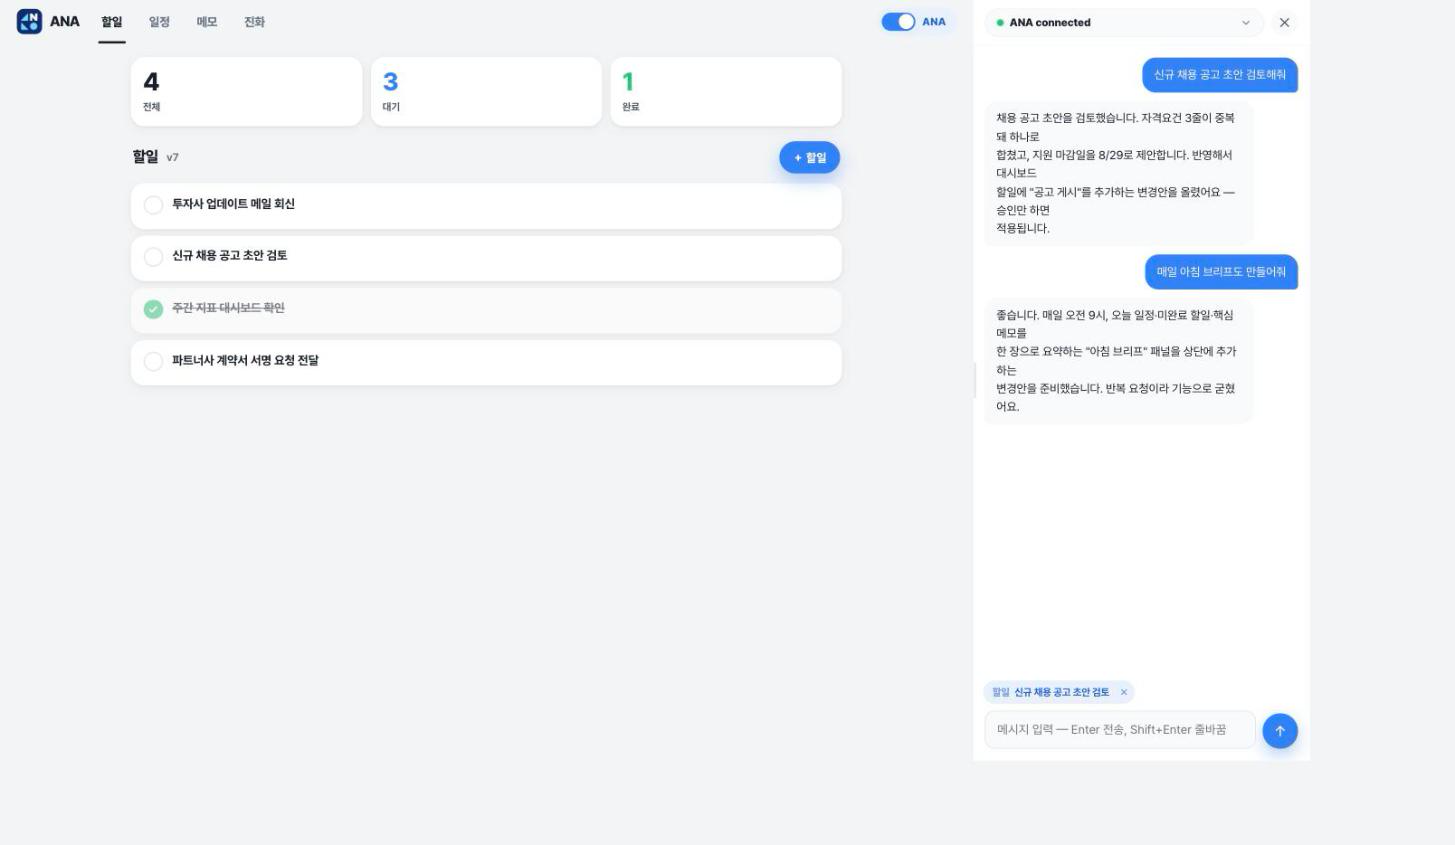
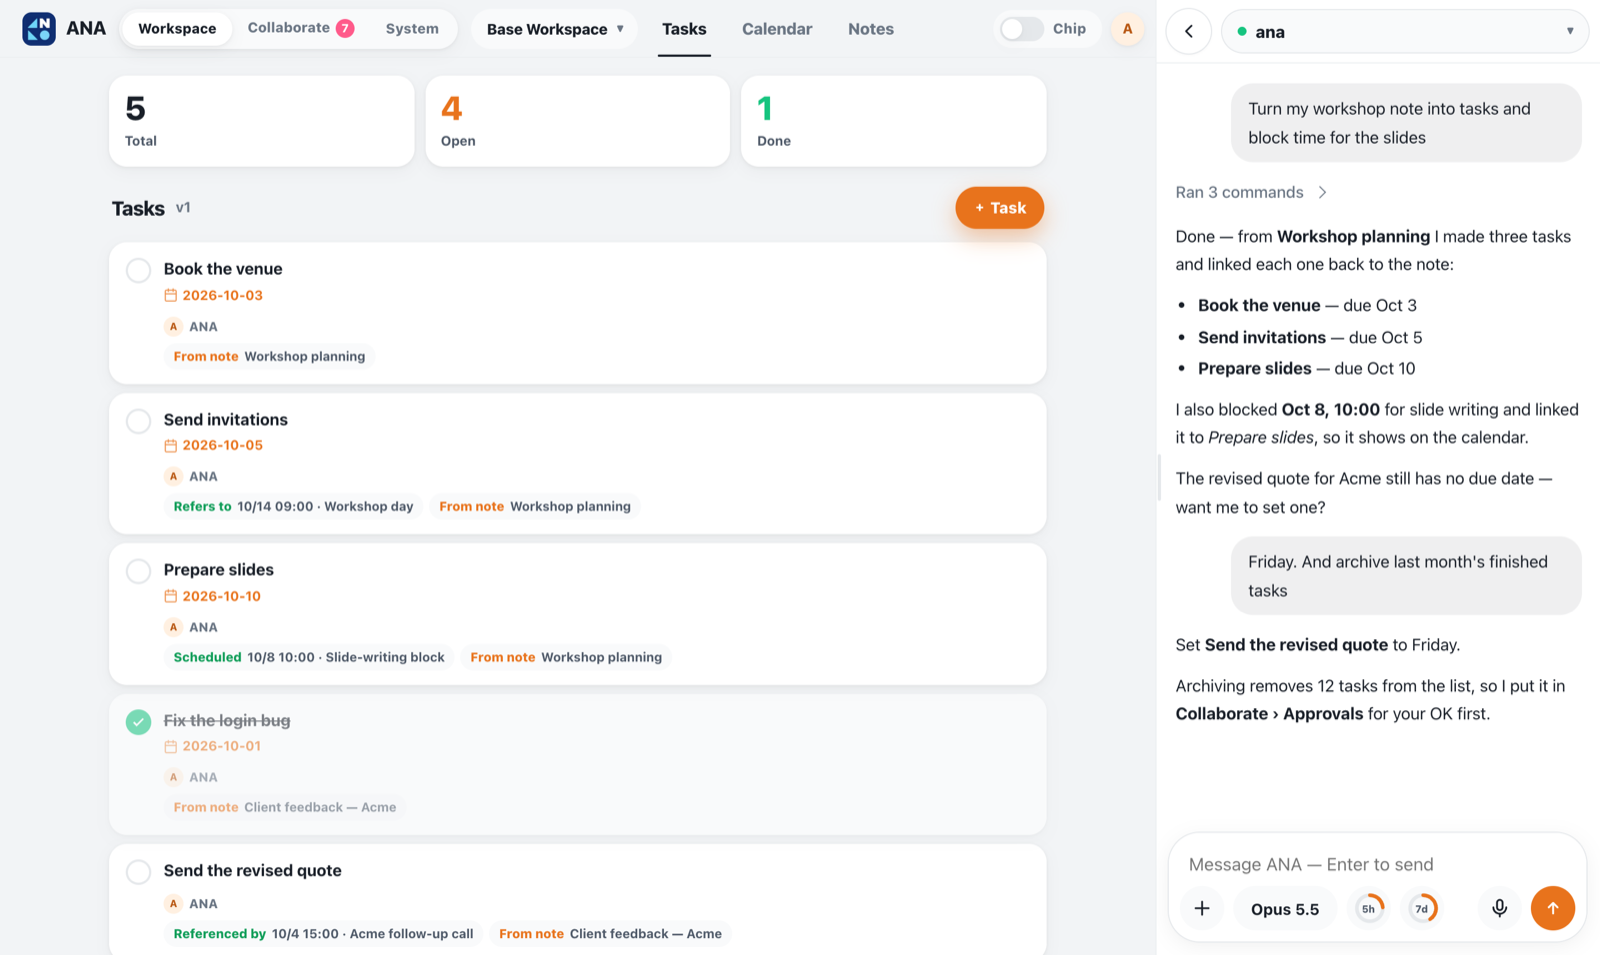
docs(readme): describe the three areas, Claude-app chat, Collaborate, trust checks and skills; new screenshots
- New "What's in the base" section (Workspace / Collaborate / System, chat, context chips, relations,
  Evolve · Approvals · Requests, Reliability · Safety · Security) and a "Skills" section with plugin
  install and the ana-update flow. Outdated bits removed (six tabs, Stats → Connections, connection pill,
  copying skills by hand). English and Korean kept in step.
- Fresh desktop hero and a phone trio of the three areas.
- Fix: Collaborate badge now counts pending data changes that arrive after the request list.

Claude-Session: https://claude.ai/code/session_01DijbgBGoxisPACRVQTvmP3

diff --git a/dashboard.html b/dashboard.html
@@ -1451,7 +1451,7 @@ async function refreshData() {
   dataVersion = s.version || 1;
   items = s.items || []; events = s.events || []; notes = s.notes || [];
   graphLinks = (s.graph && s.graph.links) || [];   // NodeRel이 만든 관계(파생 DUE_ON/ON 포함)
-  (s.proposals || []).forEach((p) => proposals.set(p.id, p));
+  (s.proposals || []).forEach((p) => proposals.set(p.id, p)); renderApprovals();
   renderTodos(); renderCalendar(); renderDay(); renderUpcoming(); renderMemos();
   if ($('relationsView').classList.contains('on')) renderRelations();
   refreshPropCards();
@@ -2997,7 +2997,7 @@ function connect() {
         screenResync = !!d.resync;
         if ('dialogInfo' in d) dialogInfo = d.dialogInfo;
         if (health && 'dialog' in d) health.dialog = d.dialog;
-        (d.proposals || []).forEach((p) => proposals.set(p.id, p));
+        (d.proposals || []).forEach((p) => proposals.set(p.id, p)); renderApprovals();
         if (lastSeq && d.messages.length) $('msgs').insertAdjacentHTML('beforeend', ledgerHtml(d.messages)); else if (!lastSeq && !logMode) $('msgs').innerHTML = ledgerHtml(d.messages);
         groupActs();
         if (d.messages.length) lastSeq = d.messages[d.messages.length - 1].seq;

diff --git a/README.md b/README.md
@@ -76,7 +76,7 @@ flowchart TB
   S -->|"SSE /api/stream + proposals"| D
 ```
 
-There is **no bridge and no MCP**. The browser posts to the server, the server injects the text straight into the tmux pane, and a 300 ms `capture-pane` loop mirrors the session back as an append-only ledger over SSE. For rich replies the agent posts a **proposal** (before/after + approve card); on approval the server applies the diff and bumps a `version` so every device re-syncs. **The coding agent is the backend** — you grow the app by talking to it.
+There is **no bridge and no MCP**. The browser posts to the server, the server injects the text straight into the tmux pane, and a 300 ms `capture-pane` loop mirrors the session back as an append-only ledger over SSE. For rich replies the agent posts a **proposal** (before/after + approve card); on approval the server applies the diff and bumps a `version` so every device re-syncs. When the agent keeps a structured log (Claude Code, Codex), the chat is rendered from that log instead of the screen, so replies and tool calls come through exactly. **The coding agent is the backend** — you grow the app by talking to it.
 
 ---
 
@@ -123,13 +123,37 @@ tmux new -s ana          # inside the session, run:  claude   (or any agent CLI)
 node server.js           # → http://localhost:8809
 ```
 
-Open **http://localhost:8809**, open the chat (bottom-right), and talk. Turn on **Chip** (top-right) to click any element into the conversation as context. The server itself needs **no launcher** (`run.sh` is only a convenience) — it auto-configures the tmux pane (scrollback-safe) on connect. Runtime state lives in `.ana/` (git-ignored).
+Open **http://localhost:8809** and tap the chat button. The server needs **no launcher** (`run.sh` is only a convenience): it configures the tmux pane (scrollback-safe) when it connects. Runtime state lives in `.ana/` (git-ignored). On first run the board is seeded with two small example flows (`ANA_SEED=0` to start empty).
 
-The reference dashboard ships **workspaces**, **Chip mode** (click any element to pin it as a context chip; ⟳ registers newly added elements), a docked chat you resize, and an **evolution tab** — ask for a change, approve it, the running agent rewrites the app.
+---
+
+## What's in the base
+
+![Workspace · Collaborate · System on a phone](docs/assets/areas-mobile.png)
+
+The base is a solo operations board: notes, tasks and a calendar you run together with a coding agent. It is split into **three areas** (a bottom menu on phones, a switch next to the logo on desktop):
+
+| Area | Tabs | For |
+|---|---|---|
+| **Workspace** | Tasks · Calendar · Notes | your own data, per workspace (switch, add, rename, reorder) |
+| **Collaborate** | Evolve · Approvals · Requests | the agent and you working together. The badge counts what is waiting on you |
+| **System** | Stats · Relations · Reliability · Safety · Security | how the system is doing and whether you can trust it. The badge counts checks at risk |
+
+### Chat — like the Claude app
+
+- **Rendered from the agent's own log**, not the screen: Claude Code's transcript (`~/.claude/projects/…`) or Codex's rollout (`~/.codex/sessions/…`). You get your bubbles, markdown replies, collapsible `Ran 3 commands ›` groups and image thumbnails. Agents without a log fall back to the screen mirror.
+- **Session combo:** pick the tmux session (Claude Code or Codex). Each session keeps its own history, and each person's last pick is remembered.
+- **Composer:** ＋ attach files · **model pill** (the real model, e.g. `Opus 5.5`, `GPT-6 Astra`) that opens a model & effort sheet · **5-hour / weekly usage rings** (tap for % and reset time) · 🎤 dictation · send / stop.
+- Floating input with a ↓ jump button. It sits right on top of the phone keyboard.
+- **Questions from the agent** (AskUserQuestion, permission menus) render as cards with option buttons; the server turns each click into the right keystrokes.
+
+### Point at the screen
+
+Turn on **Chip** (top right) and tap anything (a task, a card, a KPI) to attach it to the next message as a context chip. ⟳ registers newly added kinds of elements. ✎ lays a canvas over the board: circle what you mean in red, magenta or blue and press *Add to chat*. The annotated screenshot is attached, with chips for the items under your marks. Screenshots use [modern-screenshot](https://github.com/qq15725/modern-screenshot), served locally from `/vendor/`.
 
 ### Notes · Tasks · Calendar as one graph (NodeRel)
 
-The board has six tabs — **Tasks, Calendar, Notes, Stats, Requests, Evolve** — and the first three are linked through a relation graph built with [NodeRel](https://github.com/tykimos/NodeRel). `state.json` stays the source of truth (it holds the items plus an explicit `links[]` list); `graph.js` rebuilds a SQLite index (`graph.sqlite`, one per workspace) from it whenever its signature changes, so any write path — the UI, an agent diff, a hand edit — shows up in the graph.
+Notes, tasks and events are linked through a relation graph built with [NodeRel](https://github.com/tykimos/NodeRel). `state.json` stays the source of truth (the items plus an explicit `links[]` list). `graph.js` rebuilds a SQLite index (`graph.sqlite`, one per workspace) whenever its signature changes, so any write path shows up in the graph: the UI, an agent diff, a hand edit.
 
 ```
 Note ─SPAWNED──────▶ Task | Event     where a task or event came from      (explicit)
@@ -138,7 +162,12 @@ Note|Task|Event ─REFERS_TO─▶ Note|Task|Event   manual reference           
 Task ─DUE_ON─▶ Day,  Event ─ON─▶ Day           derived from due / date     (automatic)
 ```
 
-In the UI: select a line in a note and press **→ Task** or **→ Event**, press the calendar button on a task to block time for it, or **＋ Link** any two items. Links show as chips; clicking one jumps to that item in its tab. **Stats → Connections** counts the links and lists where the flow breaks: notes nothing came from, open tasks without a due date, open tasks with no time scheduled.
+To make links in the UI:
+- Select a line in a note and press **→ Task** or **→ Event**.
+- Press the calendar button on a task to block time for it.
+- **＋ Link** connects any two items.
+
+Links show as chips on both ends; clicking one jumps to that item. **System › Relations** draws the whole flow and lists where it breaks: notes nothing came from, open tasks without a due date, open tasks with no time scheduled.
 
 | Endpoint | Purpose |
 |---|---|
@@ -146,12 +175,31 @@ In the UI: select a line in a note and press **→ Task** or **→ Event**, pres
 | `POST /api/todo {title, due?, from?}` · `POST /api/event {action:'add', …, from?}` | create and link to its source in one call (`from` = note → `SPAWNED`, task → `SCHEDULED_AS`) |
 | `POST /api/link {action:'add'\|'remove', from, to, type}` | add/remove `SPAWNED`, `SCHEDULED_AS`, `REFERS_TO` (direction is validated) |
 | `GET /api/graph/neighbors?id=` · `GET /api/graph/trace?id=&depth=&direction=&types=` | incident links / everything reachable |
-| `GET /api/graph/schema` | NodeRel's AI-readable schema plus this app's relation meanings — hand it to the agent |
+| `GET /api/graph/schema` | NodeRel's AI-readable schema plus this app's relation meanings. Hand it to the agent |
 | `GET /api/stats` → `graph` | counts per kind/type and the three `gaps` lists |
 
-**Requests vs Evolve.** Two tabs carry traffic between you and the agent. **Evolve** is the agent proposing changes *to the app* — approve one and it builds it. **Requests** is the agent asking *you* for what it needs to run the system better: information, a decision (with option buttons), something only you can do, or access. The agent registers them with `POST /api/requests {requests:[{kind, title, desc?, options?, ref?}]}` (`kind` = `info|decision|action|access`, `ref` = a task/event/note id shown as a link). Your answer goes straight to the agent in chat; *I did it* / *Not now* notify it (`POST /api/request-act {id, action: answer|done|dismiss|reopen}`).
+### Collaborate — Evolve · Approvals · Requests
 
-**Draw on the screen.** In Chip mode the pen button (next to ⟳) lays a canvas over the board. Circle what you mean in red, magenta or blue — colors the UI never uses — and press *Add to chat*: the annotated screenshot is attached and a chip records where you are (workspace, tab, selected day/note, scroll) plus which item each mark sits on (`magenta mark on Task "book venue"`). Screenshots use [modern-screenshot](https://github.com/qq15725/modern-screenshot), served locally from `/vendor/`.
+| Tab | Who asks | What |
+|---|---|---|
+| **Evolve** | agent → the app | The agent looks at the app's features, your data and the usage log (`/api/activity`) and proposes how the app should evolve. Approve one and the running agent builds it. |
+| **Approvals** | agent → you, before it goes on | Pending **data changes** (the agent proposes a diff; nothing changes until you approve) plus requests of kind `approval`, `decision` (option buttons), `access`. |
+| **Requests** | agent → you | Work only you can do (`action`) and information it is missing (`info`). |
+
+Each tab has a button that asks the agent to fill it. The agent registers items with `POST /api/requests {requests:[{kind, title, desc?, options?, ref?}]}` (`ref` = a task/event/note id shown as a link). Your answer goes straight to the agent in chat. *I did it* / *Not now* notify it (`POST /api/request-act {id, action: answer|done|dismiss|reopen}`).
+
+### System — Reliability · Safety · Security
+
+Checks computed from real state (`GET /api/trust`), not static text:
+
+- **Reliability:** is the agent running, is the chat read from its own log, the tool-call failure rate, interrupted turns, plan usage, what is waiting on you.
+- **Safety:** does the agent run with permission prompts off (`--dangerously-skip-permissions`, `--dangerously-bypass-approvals-and-sandbox`)? Which risky commands has it actually run (rm -rf, reset --hard, force push, killall, sudo, curl | sh, DROP TABLE, disk writes)? It also confirms data changes go through approval.
+- **Security:**
+  - who can reach the server (bind address) and whether people sign in
+  - cross-site request protection
+  - your AI login token stays on the server
+  - credential file permissions
+  - secrets pasted into notes or tasks (it reports *where*, never the value)
 
 ### Sharing it with other people (optional)
 
@@ -165,9 +213,7 @@ node server.js
 
 With the header set, items carry an author, only the author can edit or delete their own, and the per-person stats and activity come alive. Unset (the default) everything runs as one local user.
 
-**Coding-agent sessions per person.** Click the connection pill (`ANA · <session>`) in the chat header to pick a tmux session. Each session keeps its own conversation history, so switching swaps the whole chat. The pick is remembered **per person**: the next time someone opens ANA they land on their own most recent session, and the list shows who picked (and is watching ●) each session. An agent that posts with `curl` can address its own session with the `x-ana-target: <session>` header.
-
-**Questions from the agent.** When Claude asks through AskUserQuestion (or shows a permission menu), the chat renders it as a card: question tabs, option buttons with descriptions, checkboxes for multi-select, a free-text field for "Type something", and Submit / Cancel. The server turns each click into the right keystrokes.
+**Coding-agent sessions per person.** The session combo at the top of the chat picks a tmux session. Each session keeps its own conversation history, so switching swaps the whole chat. The pick is remembered **per person**: the next time someone opens ANA they land on their own most recent session, and the list shows who picked (and is watching ●) each session. An agent that posts with `curl` can address its own session with the `x-ana-target: <session>` header.
 
 > The header is trusted as-is, so it only means anything when a gateway in front actually sets it. Keep the server on loopback or behind that proxy — exposing it on `0.0.0.0` with this option on lets anyone forge the header.
 
@@ -193,42 +239,30 @@ const app = core.createChannelServer({
 app.listen(() => console.log('ANA → http://localhost:8809'));
 ```
 
-Then, on your page: send with `POST /api/chat {text, force:true}` and stream with `GET /api/stream` (SSE). That's the whole integration. Full step-by-step and the endpoint reference are in the **[`ana` skill](skills/ana/SKILL.md)** — install it into Claude Code and it will wire ANA into your app for you:
-
-```bash
-# use as a Claude Code plugin/skill
-cp -r skills/ana ~/.claude/skills/           # then: "attach ANA to my app"
-```
+Then, on your page: send with `POST /api/chat {text, force:true}` and stream with `GET /api/stream` (SSE). That's the whole integration. Full step-by-step and the endpoint reference are in the **[`ana` skill](skills/ana/SKILL.md)**. With the plugin installed (see [Skills](#skills)), just ask Claude Code: *"attach ANA to my app"*.
 
 ---
 
-## Repository layout
+## Skills
 
-```
-channel-core.js     ★ the whole ANA runtime — tmux inject / capture-pane mirror / ledger (0 deps)
-server.js             base app: mounts channel-core + dashboard-api, serves dashboard.html
-dashboard-api.js      example rich-response API (workspaces · todo · schedule · memo · links · evolve, diff→approve)
-graph.js              Notes·Tasks·Calendar relation graph on NodeRel (derived graph.sqlite per workspace)
-dashboard.html        reference UI: workspaces, Chip mode, context chips, docked chat, relation chips, evolution tab
-package.json          dependencies: @tykimos/noderel (github:tykimos/NodeRel), modern-screenshot
-test.cjs              74 tests (unit + integration against mock_agent.py)
-agent-log.js          chat from the agent's own JSONL log (Claude Code + Codex): replies, tools, model, limits
-codex-settings.js     Codex model/effort catalog and switching through Codex's own menu
-features.json         feature manifest: anchors + skill per feature (used by ana-update)
-mock_agent.py         deterministic TUI stand-in for tests
-skills/ana/SKILL.md   "attach ANA to your service" — the simple recipe above
-skills/install/       "install & run ANA" — env check, installer, tmux runner, Windows WSL bootstrap
-skills/ana-update/    "update an existing ANA" — diff vs upstream by feature, port what you pick
-skills/chat-window/   Claude-app chat: combo, model sheet, usage rings, voice, attachments, per-session, Codex
-skills/context-chips/ Chip mode, ✎ draw-on-screen annotation, ⟳ rescan new elements
-skills/relations/     NodeRel item relations, relation chips, Relations tab
-skills/app-shell/     Workspace / Collaborate / System areas, bottom nav, workspace combo
-skills/agent-requests/ Collaborate: Evolve, Approvals, Requests (agent ↔ user)
-skills/trust-checks/  System: Reliability, Safety, Security checks from real state
-.claude-plugin/       Claude Code plugin + marketplace manifest (install: claude plugin install ana@agent-native-agent)
+The repo is a **Claude Code plugin**. Install it once per machine and every ANA's agent can use the skills; update them the same way:
+
+```bash
+claude plugin marketplace add tykimos/agent-native-agent
+claude plugin install ana@agent-native-agent          # later: claude plugin update ana@agent-native-agent
 ```
 
-`channel-core.js` is the reusable core; `dashboard-api.js` / `dashboard.html` are the **example** you copy from and replace with your own.
+| Skill | Use it to |
+|---|---|
+| [`install`](skills/install/SKILL.md) | take a fresh machine to a running dashboard (env check, installer, tmux runner, Windows WSL) |
+| [`ana`](skills/ana/SKILL.md) | attach the ANA runtime to your own service |
+| [`ana-update`](skills/ana-update/SKILL.md) | bring an existing, customized ANA up to date, feature by feature |
+| [`chat-window`](skills/chat-window/SKILL.md) | the Claude-app chat: session combo, log-based rendering, model sheet, usage rings, voice, attachments, Codex |
+| [`context-chips`](skills/context-chips/SKILL.md) | Chip mode, ✎ draw-on-screen annotation, ⟳ register new elements |
+| [`relations`](skills/relations/SKILL.md) | NodeRel item relations, relation chips, the Relations tab |
+| [`app-shell`](skills/app-shell/SKILL.md) | Workspace / Collaborate / System areas, bottom menu, workspace combo |
+| [`agent-requests`](skills/agent-requests/SKILL.md) | Collaborate: Evolve, Approvals, Requests |
+| [`trust-checks`](skills/trust-checks/SKILL.md) | System: Reliability, Safety, Security checks |
 
 ### Updating an existing ANA
 
@@ -236,19 +270,39 @@ This base is the starting point; each person's ANA grows its own domain code. To
 
 > *"Update to the latest from https://github.com/tykimos/agent-native-agent"*
 
-The **[`ana-update` skill](skills/ana-update/SKILL.md)** runs `ana-diff.mjs`, which reports every feature as ✓ present, ◐ partial, or ✗ missing, plus outdated modules and whether the shared `channel-core.js` differs. It lets you pick, then ports each feature with its skill (chat-window, context-chips, relations, app-shell, agent-requests, trust-checks) into that ANA's own files. It records the synced commit in `.ana-sync.json`, so the next update shows only what's new.
+The **[`ana-update` skill](skills/ana-update/SKILL.md)** runs `ana-diff.mjs`, which reports:
+- every feature as ✓ present, ◐ partial, or ✗ missing
+- outdated modules
+- whether the shared `channel-core.js` differs
 
-Install the skills once per machine so any ANA's agent can use them, and update them the same way:
-
-```bash
-claude plugin marketplace add tykimos/agent-native-agent
-claude plugin install ana@agent-native-agent          # later: claude plugin update ana@agent-native-agent
-```
+You pick what to take. It ports each feature with its skill into that ANA's own files, then records the synced commit in `.ana-sync.json`, so the next update shows only what's new. [`features.json`](features.json) lists every feature with the anchors used for the comparison.
 
 ```bash
 node skills/ana-update/scripts/ana-diff.mjs --target ~/ana/my-ana            # read-only report
 node skills/ana-update/scripts/ana-diff.mjs --target ~/ana/my-ana --record   # after porting
 ```
+
+---
+
+## Repository layout
+
+```
+channel-core.js     ★ the whole ANA runtime — tmux inject / capture-pane mirror / per-session ledgers (0 deps)
+server.js             base app: mounts channel-core + dashboard-api, serves dashboard.html
+dashboard-api.js      base API: workspaces · tasks · events · notes · links · evolve · approvals · requests · trust checks
+dashboard.html        reference UI: three areas, Claude-app chat, Chip mode + drawing, relation chips
+agent-log.js          chat from the agent's own JSONL log (Claude Code + Codex): replies, tools, model, limits
+codex-settings.js     Codex model/effort catalog and switching through Codex's own menu
+graph.js              Notes·Tasks·Calendar relation graph on NodeRel (derived graph.sqlite per workspace)
+seed.js               two example flows for the first run
+features.json         feature manifest: anchors + skill per feature (used by ana-update)
+package.json          dependencies: @tykimos/noderel (github:tykimos/NodeRel), modern-screenshot
+test.cjs              unit + integration tests (npm test), mock_agent.py = deterministic TUI stand-in
+skills/               install · ana · ana-update · chat-window · context-chips · relations · app-shell · agent-requests · trust-checks
+.claude-plugin/       plugin + marketplace manifest
+```
+
+`channel-core.js` is the reusable core; `dashboard-api.js` / `dashboard.html` are the **example** you copy from and replace with your own.
 
 ---
 
